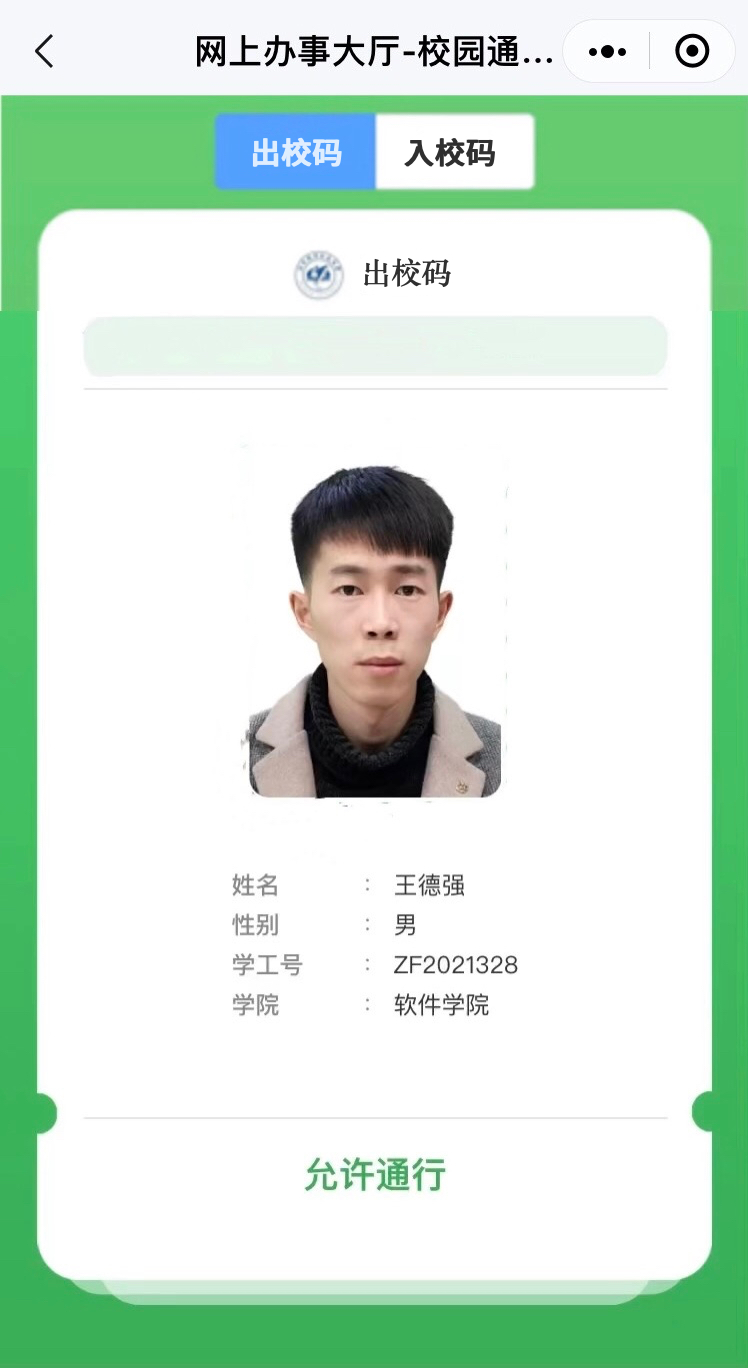
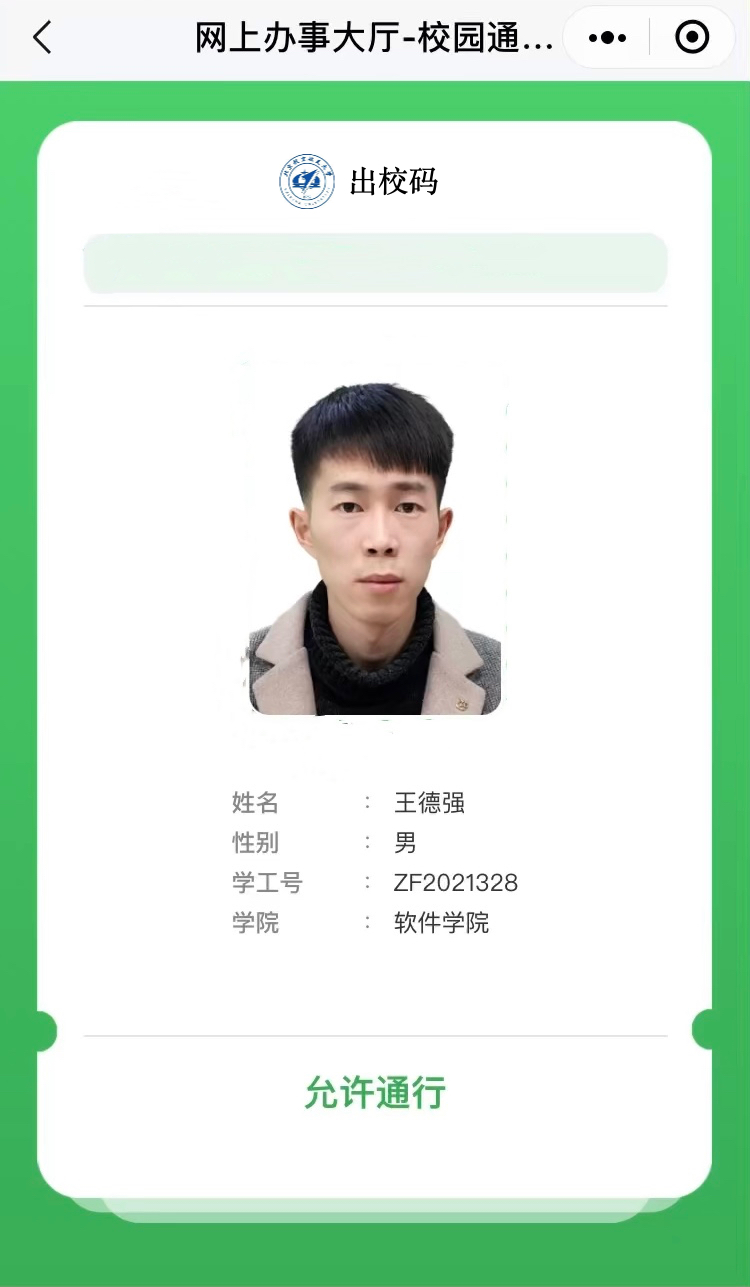
update

diff --git a/index2.html b/index2.html
@@ -1,7 +1,7 @@
 <html>
-    <body  style="background-image: url(./2.jpg);background-size:755px 1334px;background-repeat:no-repeat;background-size: cover;">
-    <div id="times" style="font-size:2.5rem;color:#49CF6B;position:absolute;top:425px;left:265px;font-weight:normal;font-family: math;"></div>
-    <div style="position:absolute;top:570px;left:300px;"><img style="width:380px;height:auto" src="./green_bg.gif"></div>
+    <body  style="background-image: url(./2-4.jpg);background-size:755px 1334px;background-repeat:no-repeat;background-size: cover;">
+    <div id="times" style="font-size:2.5rem;color:#49CF6B;position:absolute;top:318px;left:265px;font-weight:normal;font-family: ui-monospace;"></div>
+    <div style="position:absolute;top:455px;left:300px;"><img style="width:380px;height:auto" src="./green_bg.gif"></div>
     <div style="position:absolute;top:800px;height:1000px;width:100%"></div>
     </body>
 </html>

diff --git a/index4.html b/index4.html
@@ -1,7 +1,7 @@
 <html>
-    <body  style="background-image: url(./3.jpg);background-size:755px 1334px;background-repeat:no-repeat;background-size: cover;">
-    <div id="times" style="font-size:2.5rem;color:#49CF6B;position:absolute;top:425px;left:265px;font-weight:normal;font-family: math;"></div>
-    <div style="position:absolute;top:570px;left:300px;"><img style="width:380px;height:auto" src="./green_bg.gif"></div>
+    <body  style="background-image: url(./2-3.jpg);background-size:755px 1334px;background-repeat:no-repeat;background-size: cover;">
+    <div id="times" style="font-size:2.5rem;color:#49CF6B;position:absolute;top:318px;left:265px;font-weight:normal;font-family: ui-monospace;"></div>
+    <div style="position:absolute;top:455px;left:300px;"><img style="width:380px;height:auto" src="./green_bg.gif"></div>
     <div style="position:absolute;top:800px;height:1000px;width:100%"></div>
     </body>
 </html>
